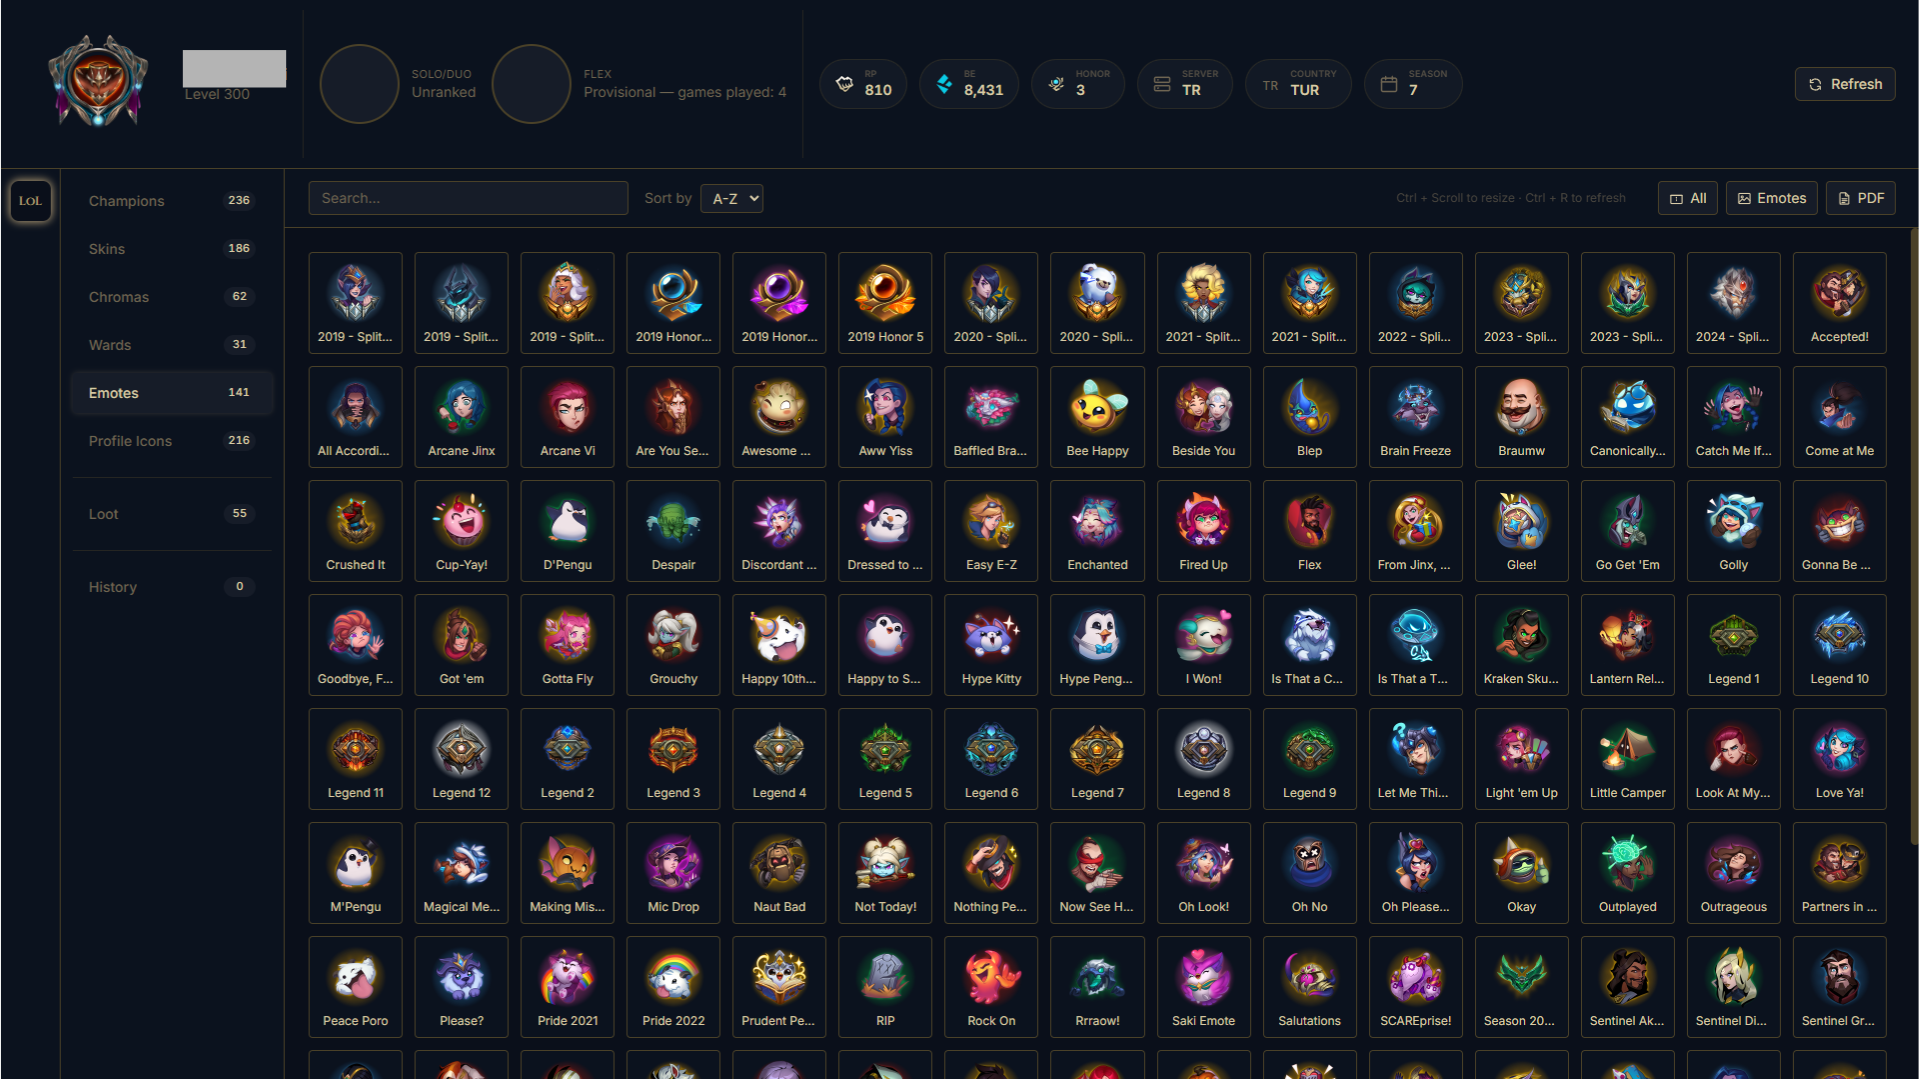
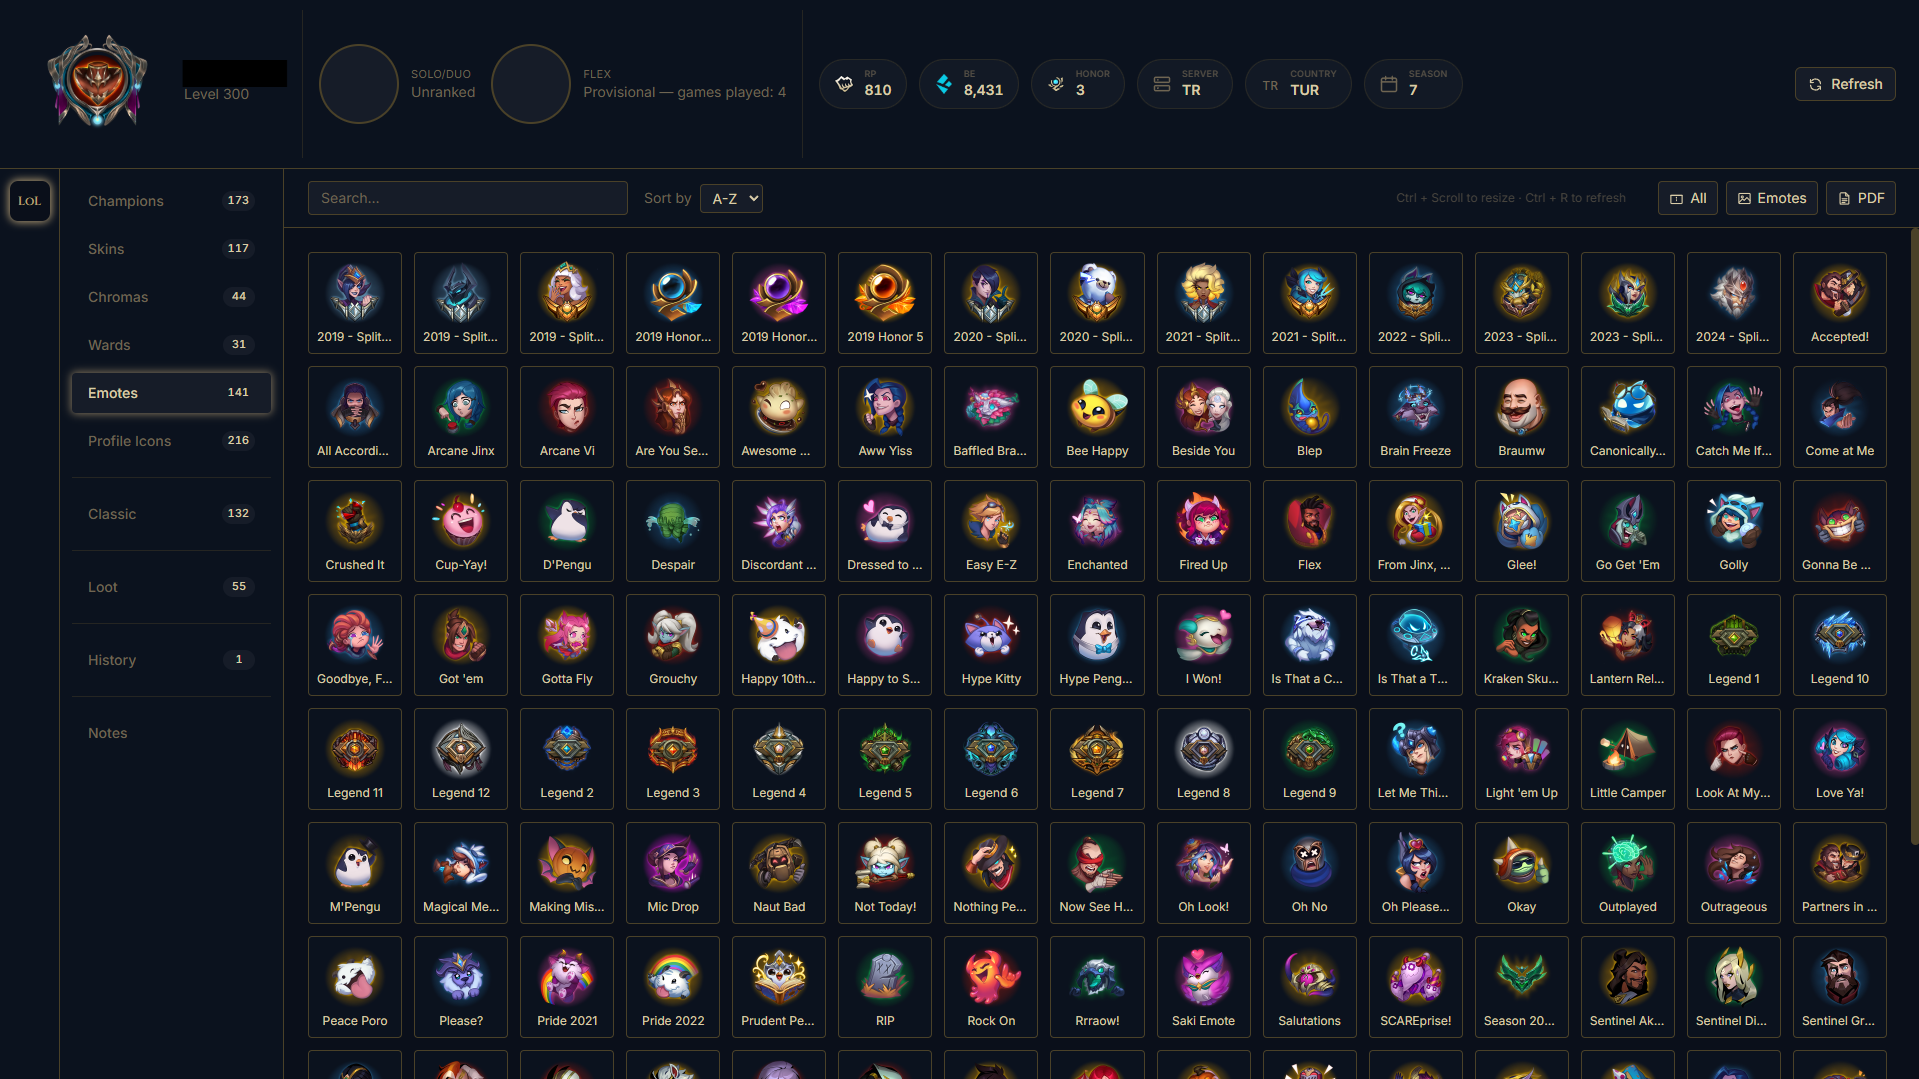
docs: readme screenshot fixes

diff --git a/README.md b/README.md
@@ -59,14 +59,23 @@ snapshots of accounts you've already viewed — display data only, never credent
 ### Profile icons
 ![Profile icons](screenshots/icons.png)
 
+### Classic
+![Classic](screenshots/classic.png)
+
 ### Loot
 ![Loot](screenshots/loot.png)
+
+### History
+![History](screenshots/history.png)
+
+### Notes
+![Notes](screenshots/notes.png)
 
 ### Waiting for the client
 ![Waiting screen](screenshots/waiting.png)
 
-### Export output
-![Export output](screenshots/export.png)
+### Connecting to the client
+![Connecting screen](screenshots/connect.png)
 
 </details>
 
